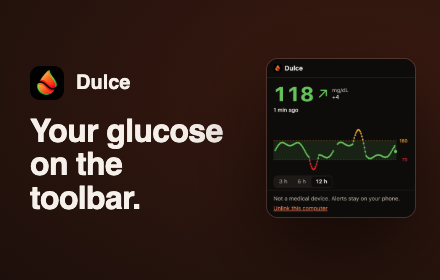
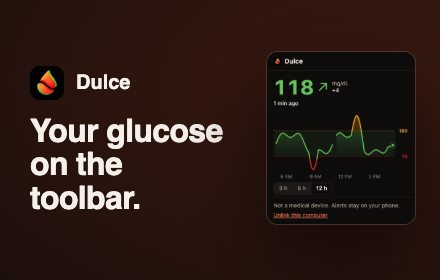
Chrome: new popup screenshots with the smooth chart
Website /chrome image and the two store images that show the reading.

diff --git a/lib/chrome.ts b/lib/chrome.ts
@@ -12,6 +12,6 @@ export const CHROME_STORE_LIVE = false;
 export type ChromeShot = { src: string; width: number; height: number };
 
 export const CHROME_SHOTS = {
-  reading: { src: "/guides/chrome/popup-reading.webp", width: 960, height: 1029 },
+  reading: { src: "/guides/chrome/popup-reading.webp", width: 960, height: 1113 },
   link: { src: "/guides/chrome/popup-link.webp", width: 960, height: 1296 },
 } satisfies Record<string, ChromeShot>;
